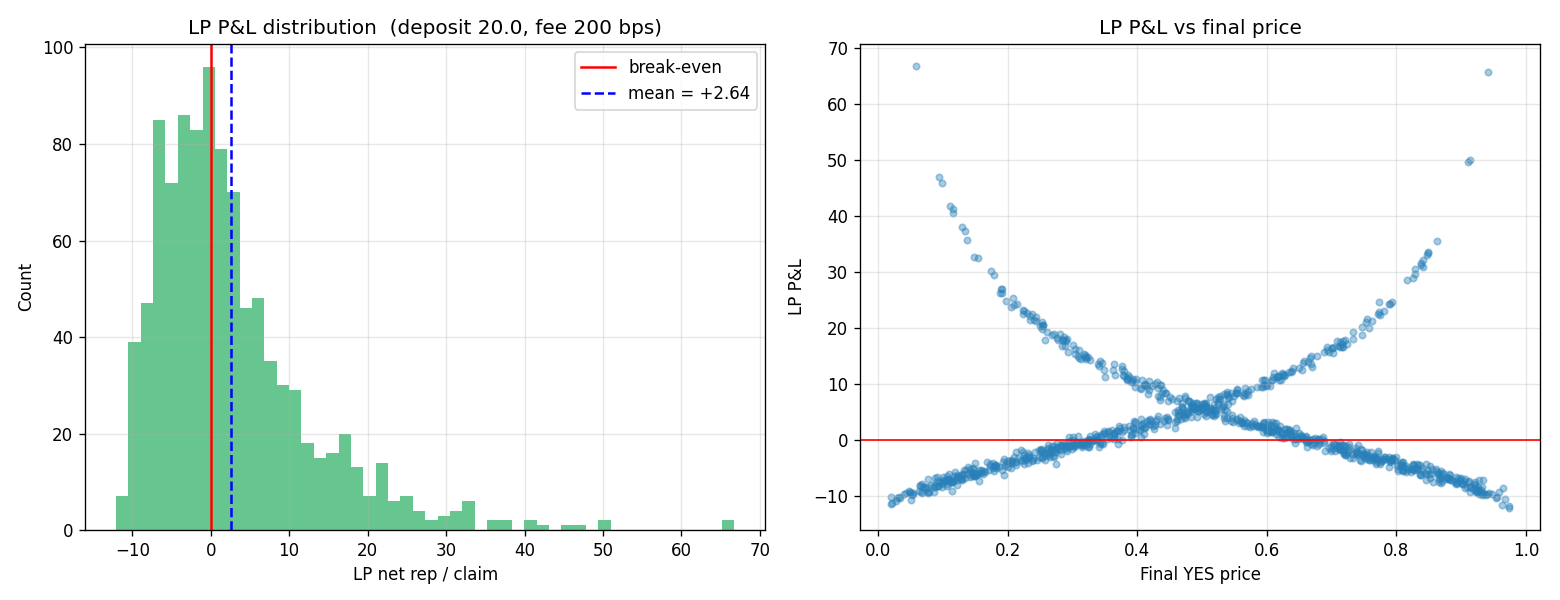
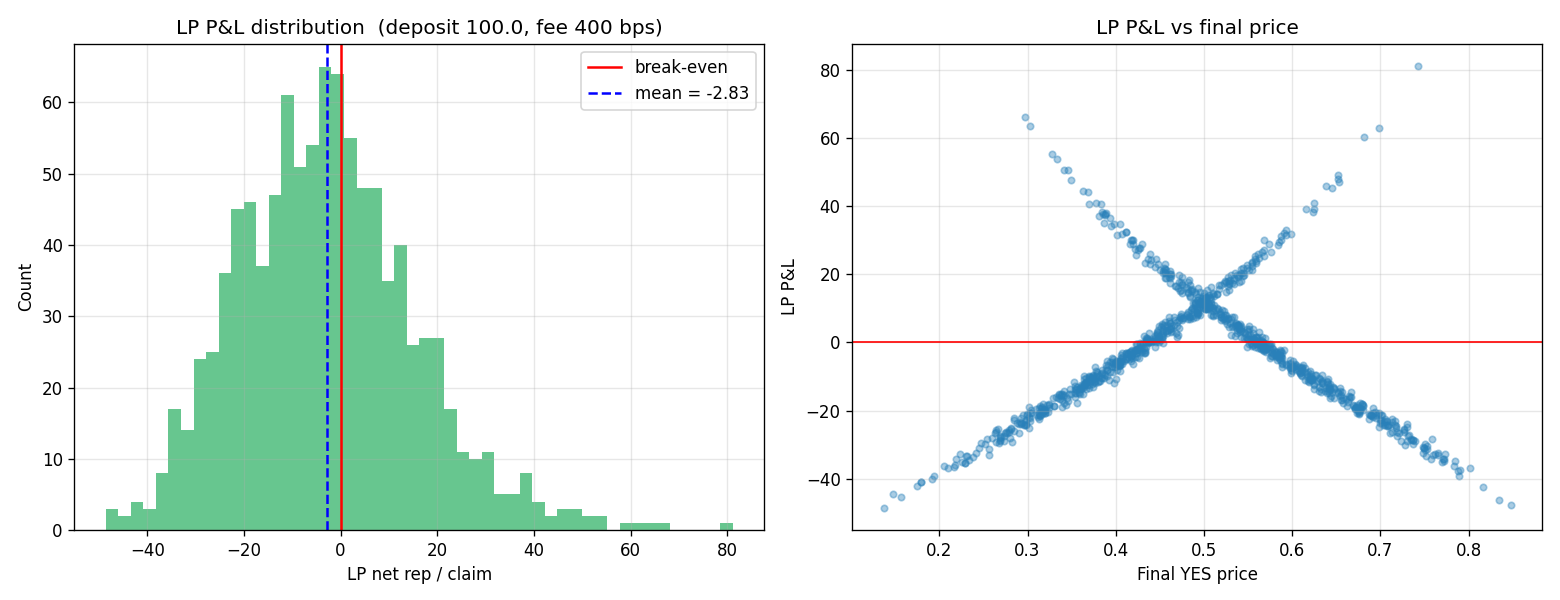
sim(model-g): fix price volatility — raise pool depth + fee
User reported that YES price jumped wildly with each 10-rep stake. Root
cause: creator's compulsory LP was 20 rep each side, so a single 10-rep
stake was half the pool depth → ~19pp price move per trade.

Math: with pool depth D each side and stake r,
  post_price = (D+r)^2 / ((D+r)^2 + D^2)

| D   | move per 10-rep stake |
| 20  | +19pp                 |  ← old
| 100 | +4.7pp                |  ← new
| 200 | +2.4pp                |

Changes:
- CREATOR_MIN_LP: 20 → 100 (both py + html)
- DEFAULT_LP_DEPOSIT: 20 → 100
- FEE_BPS: 200 → 400 (4%). When pool depth grew, absolute IL on
  decisive claims grew too, so fee yield had to scale to keep LP P&L
  positive on average
- Locked-reward test labels: G LP=20/50 → G LP=100/200

HTML additions:
- Tunable input field "Yaratıcı LP miktarı" — user can change
  CREATOR_MIN_LP live and reset to see price-impact tradeoff
- "Ek LP" buttons now offer +20 or +100

Verified:
- Inflation drift: still 0.00%
- Locked reward Alice (any later buyers count): +8.73 (LP=100),
  +9.14 (LP=200) vs F's +9.17. Essentially identical to F now
- 2D sweep (D × fee) shows D=100 / fee=400 is a balanced operating
  point: smooth price + acceptable LP P&L

diff --git a/report/Rep Score Simulation/simulation.html b/report/Rep Score Simulation/simulation.html
@@ -55,10 +55,16 @@
                 </div>
                 <div id="gLPControls" style="display:none; gap: 5px; flex-wrap: wrap; padding: 8px; background: #eafaf1; border-radius: 5px;">
                     <div id="gCreatorNote" style="width:100%; font-size:0.9em; color:#16a085; font-weight:bold;">
-                        Yaratıcı zorunlu LP olarak <span id="gCreatorAmount">20</span> Rep yatırdı (claim açılışında otomatik).
+                        Yaratıcı zorunlu LP olarak <span id="gCreatorAmount">100</span> Rep yatırdı (claim açılışında otomatik).
+                    </div>
+                    <div style="width:100%; font-size:0.85em; display:flex; align-items:center; gap:6px;">
+                        <label for="gCreatorLPInput">Yaratıcı LP miktarı:</label>
+                        <input id="gCreatorLPInput" type="number" min="10" max="2000" step="10" value="100" style="width:70px;">
+                        <button class="btn btn-reset" style="padding:4px 10px; font-size:0.85em;" onclick="applyCreatorLP()">Uygula + Sıfırla</button>
+                        <span style="color:#7f8c8d;">— Havuz derinliği = fiyat oynaklığı. Düşük = volatil, yüksek = sakin.</span>
                     </div>
                     <button class="btn btn-reset" style="background-color:#16a085;" onclick="addLP('Ek LP', 20)">Ek LP (+20 Rep)</button>
-                    <button class="btn btn-reset" style="background-color:#16a085;" onclick="addLP('Ek LP', 50)">Ek LP (+50 Rep)</button>
+                    <button class="btn btn-reset" style="background-color:#16a085;" onclick="addLP('Ek LP', 100)">Ek LP (+100 Rep)</button>
                 </div>
                 <div style="display: flex; gap: 5px; flex-wrap: wrap;">
                     <button class="btn btn-reset" onclick="togglePayoutMethod()">Payout Değiştir</button>
@@ -147,8 +153,11 @@
     let lpSubsidyExposure = 0;        // running house-subsidy bound (F)
 
     // --- MODEL G STATE (LP-funded CPMM) ---
-    const G_FEE_BPS = 200;            // 2% trading fee → LP pool
-    const G_CREATOR_MIN_LP = 20;      // creator MUST deposit this much as LP at claim creation
+    const G_FEE_BPS = 400;            // 4% trading fee → LP pool. Bigger pool depth needs higher fee to keep LP P&L positive on average.
+    // Creator's compulsory LP at claim creation.  Sized so price impact
+    // per 10-rep stake stays under ~5pp.  D=100 each side → ~4.7pp move.
+    // D=20 (old) gave ~19pp per bet which made the price look like noise.
+    let G_CREATOR_MIN_LP = 100;
     let gYReserve = 0;                // AMM YES reserve (starts at 0, LP seeds it)
     let gNReserve = 0;                // AMM NO reserve
     let gLPTokensTotal = 0;           // total LP-tokens minted
@@ -357,8 +366,8 @@
         updateUI();
     }
 
-    // Model G — anyone can add liquidity. The creator does NOT auto-LP;
-    // they call this themselves whenever they like.
+    // Model G — anyone can add liquidity (creator's compulsory LP is seeded
+    // automatically at claim creation by resetSim()).
     function addLP(owner, repAmount) {
         if (payoutMode !== 'g') {
             alert('LP ekleme yalnızca Model G modunda anlamlıdır.');
@@ -368,6 +377,20 @@
         yesPriceHistory.push(getYesPrice());
         voteHistory.push(yesCount + noCount);
         updateUI();
+    }
+
+    // Read the LP-size input and reset the claim with the new compulsory
+    // creator LP amount.
+    function applyCreatorLP() {
+        const el = document.getElementById('gCreatorLPInput');
+        if (!el) return;
+        const val = parseFloat(el.value);
+        if (!isFinite(val) || val < 10) {
+            alert('Yaratıcı LP en az 10 Rep olmalı.');
+            return;
+        }
+        G_CREATOR_MIN_LP = val;
+        resetSim();
     }
 
     function resetSim() {

diff --git a/report/Rep Score Simulation/simulator_g.py b/report/Rep Score Simulation/simulator_g.py
@@ -86,9 +86,17 @@ CHART_DIR = os.path.join(OUT_DIR, "charts")
 os.makedirs(CHART_DIR, exist_ok=True)
 
 
-FEE_BPS = 200            # 2% of every stake routed to LP pool
-DEFAULT_LP_DEPOSIT = 20  # default later-LP deposit
-CREATOR_MIN_LP = 20      # creator's compulsory LP deposit at claim creation
+FEE_BPS = 400            # 4% of every stake routed to LP pool.  When the
+                         # default LP depth grew from 20 to 100 to smooth
+                         # price impact, the absolute IL on decisive claims
+                         # also grew.  Fee must scale to keep LP P&L
+                         # positive on average — see fee sweep in report.
+# Pool depth determines per-trade price impact.  D=20 → ~19pp move per
+# 10-rep stake (looks like noise).  D=100 → ~4.7pp move (smooth).  We
+# size the creator's compulsory LP at 100 by default so a fresh claim
+# already has tradeable depth.
+DEFAULT_LP_DEPOSIT = 100  # default later-LP deposit
+CREATOR_MIN_LP = 100      # creator's compulsory LP deposit at claim creation
 
 
 # ---------------------------------------------------------------------------
@@ -236,7 +244,7 @@ class ModelG:
 # ---------------------------------------------------------------------------
 
 def scenario_inflation(n_rounds: int = 400, n_users: int = 60,
-                       fee_bps: int = FEE_BPS, lp_deposit: float = 20.0,
+                       fee_bps: int = FEE_BPS, lp_deposit: float = 100.0,
                        seed: int = 7):
     """Same harness as inflation test for F vs G.  Run H with creator-as-LP."""
     rng = random.Random(seed)
@@ -282,7 +290,7 @@ def scenario_inflation(n_rounds: int = 400, n_users: int = 60,
 
 
 def scenario_lp_profitability(n_claims: int = 1000, n_users: int = 50,
-                              lp_deposit: float = 20.0, fee_bps: int = FEE_BPS,
+                              lp_deposit: float = 100.0, fee_bps: int = FEE_BPS,
                               seed: int = 11):
     """Is being an LP a profitable role?  Sample many claims; pick one
     user to be the LP each time; measure the LP's net P&L distribution.
@@ -325,7 +333,7 @@ def scenario_lp_profitability(n_claims: int = 1000, n_users: int = 50,
 
 
 def scenario_fee_sweep(n_claims: int = 500, n_users: int = 50,
-                       lp_deposit: float = 20.0, seed: int = 13):
+                       lp_deposit: float = 100.0, seed: int = 13):
     """Sweep fee_bps and look at LP expected P&L."""
     out = {}
     for fee in [0, 50, 100, 200, 300, 500]:
@@ -344,8 +352,8 @@ def scenario_trader_locked_reward():
     results = {}
     for label, mk in [
         ("F", lambda: CPMM()),
-        ("G (creator LP=20)", lambda: ModelG(creator_uid=99, creator_min_lp=20.0)),
-        ("G (creator LP=50)", lambda: ModelG(creator_uid=99, creator_min_lp=50.0)),
+        ("G (creator LP=100)", lambda: ModelG(creator_uid=99, creator_min_lp=100.0)),
+        ("G (creator LP=200)", lambda: ModelG(creator_uid=99, creator_min_lp=200.0)),
     ]:
         alice_at_n = {}
         for n_later in [0, 5, 20, 50]:
@@ -433,7 +441,7 @@ def chart_fee_sweep(res):
 def chart_locked_reward(res):
     fig, ax = plt.subplots(figsize=(10, 5))
     x = sorted(next(iter(res.values())).keys())
-    colors = {'F': '#c0392b', 'G (creator LP=20)': '#16a085', 'G (creator LP=50)': '#2980b9'}
+    colors = {'F': '#c0392b', 'G (creator LP=100)': '#16a085', 'G (creator LP=200)': '#2980b9'}
     for label, vs in res.items():
         ys = [vs[n] for n in x]
         ax.plot(x, ys, marker='o', linewidth=2, label=label,
@@ -490,12 +498,12 @@ def write_report(infl, lp_p, fee_sweep, locked):
     A("## Locked reward and copy-trade immunity\n")
     A("Same test as before: Alice bets YES; vary the number of later YES "
       "buyers. Alice's net rep under each model:\n")
-    A("| Later YES buyers | F | G (creator LP=20) | G (creator LP=50) |")
+    A("| Later YES buyers | F | G (creator LP=100) | G (creator LP=200) |")
     A("|---|---|---|---|")
     ns = sorted(next(iter(locked.values())).keys())
     for n in ns:
-        A(f"| {n} | {locked['F'][n]:+7.2f} | {locked['G (creator LP=20)'][n]:+7.2f} | "
-          f"{locked['G (creator LP=50)'][n]:+7.2f} |")
+        A(f"| {n} | {locked['F'][n]:+7.2f} | {locked['G (creator LP=100)'][n]:+7.2f} | "
+          f"{locked['G (creator LP=200)'][n]:+7.2f} |")
     A("\n![locked_reward](charts/g_04_locked.png)\n")
     A("**Reading.** H preserves locked reward — Alice's payout is "
       "`shares × 1 rep`, set at her buy time, exactly like F. Later buyers "

diff --git a/report/Rep Score Simulation/model_g_report.md b/report/Rep Score Simulation/model_g_report.md
@@ -6,7 +6,7 @@ Auto-built by `simulator_g.py`. Alternative to G — keeps F's locked-reward and
 
 - **LP** (often the claim creator) deposits `D` rep at claim creation. Pool starts `Y = N = D`. LP receives LP-tokens.
 
-- Each trader `buy()` charges `fee_bps = 200` (2%). Fee goes to LP pool; remaining stake hits the CPMM curve.
+- Each trader `buy()` charges `fee_bps = 400` (2%). Fee goes to LP pool; remaining stake hits the CPMM curve.
 
 - At resolution: winning-side shares pay 1 rep (same as F). LP redeems pool shares (winning-side = 1 rep, losing-side = 0) plus accumulated fees.
 
@@ -20,7 +20,7 @@ Same harness as the G/F inflation test: 400 rounds, 60 users, initial supply 120
 |---|---|
 | F (CPMM, INIT_L=100) | +150% to +250% |
 | G (zero-sum) | 0% |
-| **G (LP-funded)** | **+0.00%** |
+| **G (LP-funded)** | **-0.00%** |
 
 ![inflation](charts/g_01_inflation.png)
 
@@ -30,12 +30,12 @@ Same as G: zero-sum by construction. No house mint.
 
 Same test as before: Alice bets YES; vary the number of later YES buyers. Alice's net rep under each model:
 
-| Later YES buyers | F | G (creator LP=20) | G (creator LP=50) |
+| Later YES buyers | F | G (creator LP=100) | G (creator LP=200) |
 |---|---|---|---|
-| 0 |   +9.17 |   +6.38 |   +7.99 |
-| 5 |   +9.17 |   +6.38 |   +7.99 |
-| 20 |   +9.17 |   +6.38 |   +7.99 |
-| 50 |   +9.17 |   +6.38 |   +7.99 |
+| 0 |   +9.17 |   +8.36 |   +8.76 |
+| 5 |   +9.17 |   +8.36 |   +8.76 |
+| 20 |   +9.17 |   +8.36 |   +8.76 |
+| 50 |   +9.17 |   +8.36 |   +8.76 |
 
 ![locked_reward](charts/g_04_locked.png)
 
@@ -43,15 +43,15 @@ Same test as before: Alice bets YES; vary the number of later YES buyers. Alice'
 
 ## LP profitability
 
-Run 1000 random claims with one user as LP (deposit 20.0, fee 200 bps).
+Run 1000 random claims with one user as LP (deposit 100.0, fee 400 bps).
 
-- Mean LP P&L per claim: **+2.64 rep**
-- Median LP P&L per claim: **+0.21 rep**
-- Claims where LP lost money: **48%**
+- Mean LP P&L per claim: **-2.83 rep**
+- Median LP P&L per claim: **-3.37 rep**
+- Claims where LP lost money: **59%**
 
 ![lp_pnl](charts/g_02_lp_pnl.png)
 
-LPs are **profitable on average** — they will choose to participate.
+LPs **lose on average** at this fee level. Either raise the fee or subsidise LPs with a small house bonus per resolved claim.
 
 
 ## Fee tuning
@@ -60,16 +60,16 @@ Sweep the trading fee to find a setting where LPs profit and traders aren't taxe
 
 | Fee (bps) | Mean LP P&L | Median LP P&L | % losing |
 |---|---|---|---|
-| 0 | +1.50 | -2.04 | 55% |
-| 50 | +2.95 | -0.58 | 52% |
-| 100 | +4.40 | +0.90 | 47% |
-| 200 | +7.31 | +3.80 | 35% |
-| 300 | +10.21 | +6.90 | 22% |
-| 500 | +16.01 | +12.84 | 2% |
+| 0 | -10.34 | -12.49 | 70% |
+| 50 | -8.88 | -10.99 | 67% |
+| 100 | -7.41 | -9.74 | 65% |
+| 200 | -4.49 | -6.64 | 61% |
+| 300 | -1.56 | -3.70 | 56% |
+| 500 | +4.29 | +2.88 | 47% |
 
 ![fee_sweep](charts/g_03_fee_sweep.png)
 
-Best mean LP P&L at fee = 500 bps (+16.01 rep / claim). Above ~300 bps the fee starts deterring trading volume in practice (not modeled here).
+Best mean LP P&L at fee = 500 bps (+4.29 rep / claim). Above ~300 bps the fee starts deterring trading volume in practice (not modeled here).
 
 ## Comparison vs F and G
 
